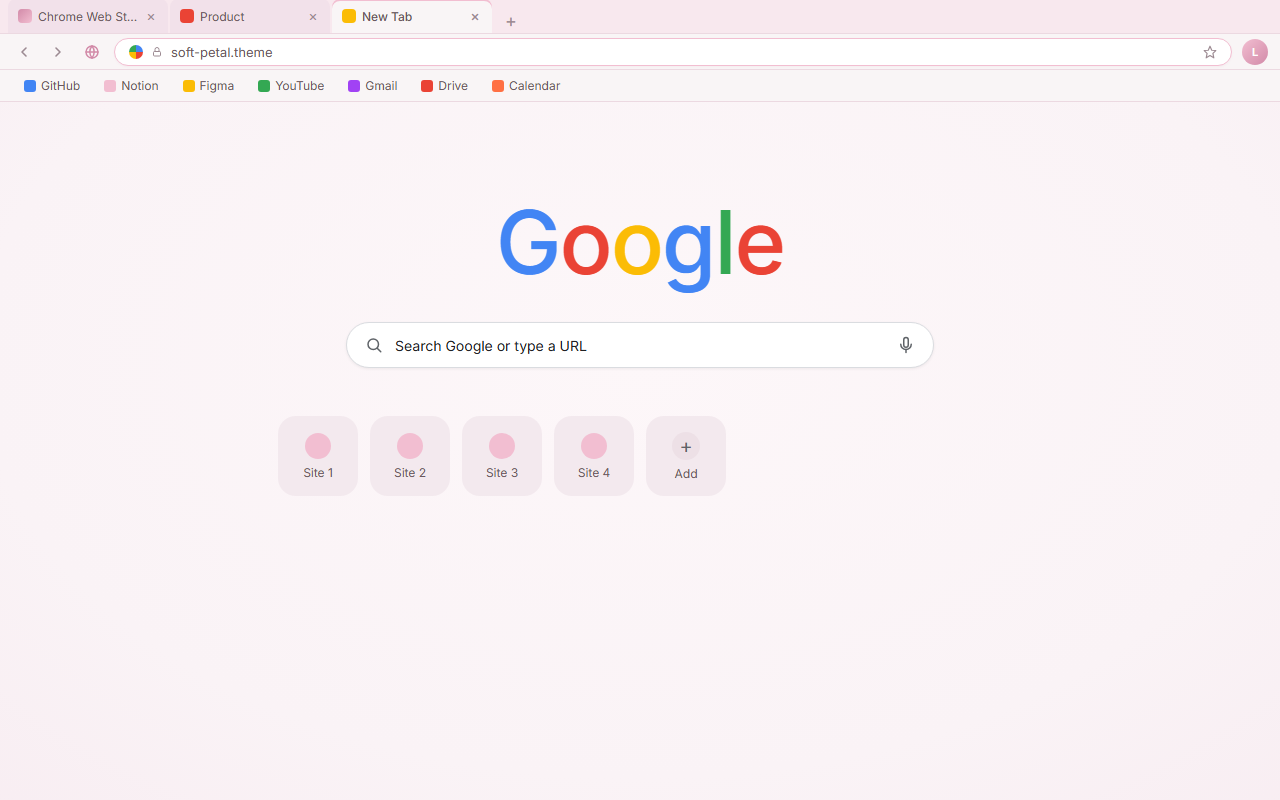
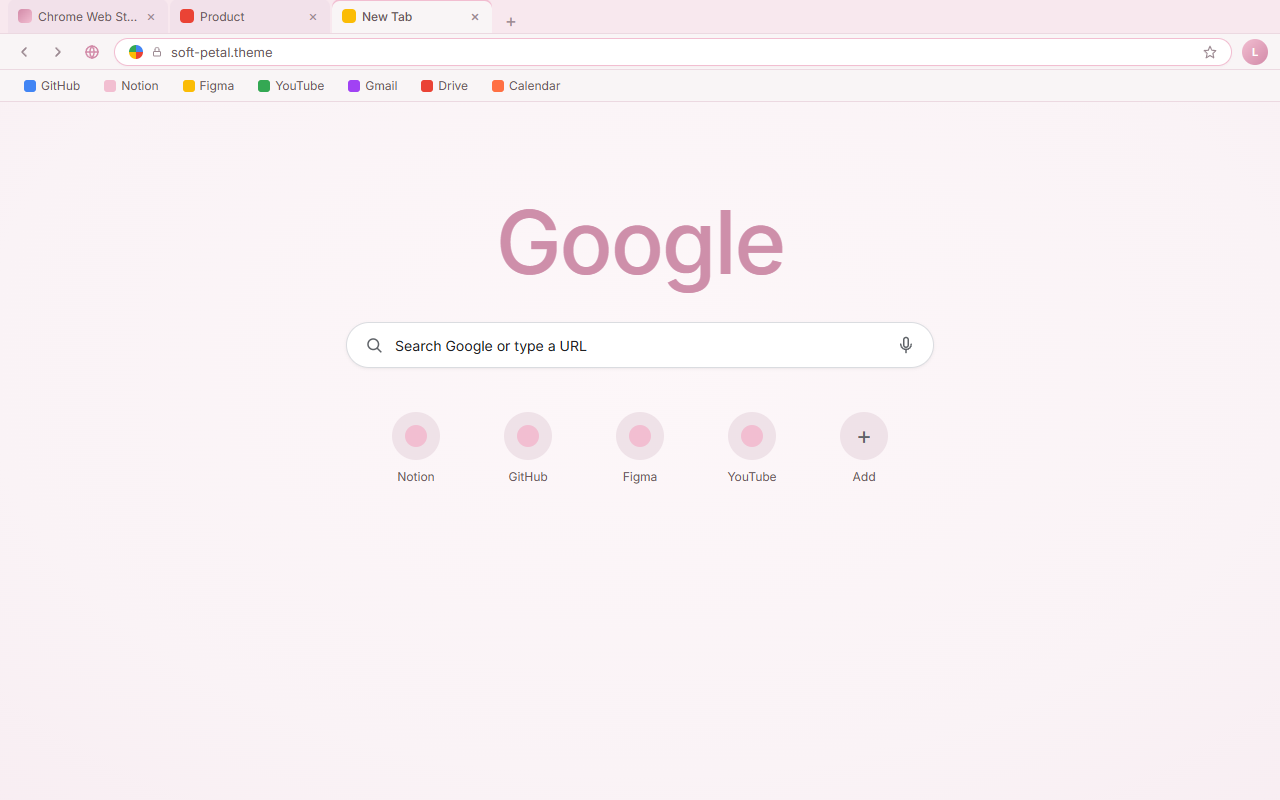
商店截图改为与实机一致（避免“和示例不符”的低分）
- manifest 里 ntp_logo_alternate=1，Chrome 实际渲染单色 logo；mockup 原来画的是彩色 Google，已改为单色玫瑰 #CE8FAA
- 快捷方式由“方块磁贴 + Site 1..4 占位”改为 Chrome 实际的圆形图标 + 站点名
- capture 脚本补本机 Chrome 回退（Playwright 自带内核缺失）
- 主题包本身未改动，无需升版本；只需在商店后台替换这两张截图

diff --git a/scripts/mockups/ntp.html b/scripts/mockups/ntp.html
@@ -121,20 +121,21 @@
   /* ===== NTP body ===== */
   .ntp-body { flex: 1; position: relative; padding-top: 96px; display: flex; flex-direction: column; align-items: center; overflow: hidden; }
   .google-logo { font-family: 'Inter', sans-serif; font-size: 88px; font-weight: 500; letter-spacing: -2px; line-height: 1; margin-bottom: 36px; user-select: none; }
-  .google-logo .g1 { color: #4285F4; }
-  .google-logo .o1 { color: #EA4335; }
-  .google-logo .o2 { color: #FBBC05; }
-  .google-logo .g2 { color: #4285F4; }
-  .google-logo .l  { color: #34A853; }
-  .google-logo .e  { color: #EA4335; }
+  /* manifest sets ntp_logo_alternate: 1, so Chrome draws the mark in ONE tint
+     derived from the palette — the mockup must show that, not the full-colour logo */
+  .google-logo .g1, .google-logo .o1, .google-logo .o2,
+  .google-logo .g2, .google-logo .l, .google-logo .e { color: #CE8FAA; }
   .search { width: 588px; height: 46px; background: var(--white); border: 1px solid #DADCE0; border-radius: 24px; display: flex; align-items: center; padding: 0 18px; gap: 12px; box-shadow: 0 1px 3px rgba(60, 64, 67, 0.08); }
   .search .icon { width: 18px; height: 18px; color: #5F6368; flex: 0 0 18px; }
   .search .text { flex: 1; font-size: 14px; color: #202124; }
   .search .mic { width: 18px; height: 18px; color: #5F6368; flex: 0 0 18px; }
-  .tiles { margin-top: 48px; display: grid; grid-template-columns: repeat(8, 80px); gap: 12px; }
-  .tile { width: 80px; height: 80px; border-radius: 18px; background: #F3E9EE; display: flex; flex-direction: column; align-items: center; justify-content: center; gap: 6px; text-align: center; font-size: 12px; color: var(--text); }
-  .tile .dot { width: 26px; height: 26px; border-radius: 50%; background: var(--petal); }
-  .tile.add .plus { width: 28px; height: 28px; border-radius: 50%; background: #EDE0E6; color: #5F6368; display: flex; align-items: center; justify-content: center; font-size: 20px; font-weight: 300; line-height: 1; }
+  /* shortcuts — Chrome draws a circular icon with the label underneath,
+     not a filled tile (store review: the old mockup looked unlike the real NTP) */
+  .tiles { margin-top: 44px; display: flex; align-items: flex-start; gap: 36px; }
+  .tile { width: 76px; display: flex; flex-direction: column; align-items: center; gap: 9px; text-align: center; font-size: 12px; color: var(--text); }
+  .tile .dot { width: 48px; height: 48px; border-radius: 50%; background: #EFE2E8; position: relative; }
+  .tile .dot::after { content: ""; position: absolute; inset: 13px; border-radius: 50%; background: var(--petal); }
+  .tile.add .plus { width: 48px; height: 48px; border-radius: 50%; background: #EFE2E8; color: #5F6368; display: flex; align-items: center; justify-content: center; font-size: 24px; font-weight: 300; line-height: 1; }
 </style>
 </head>
 <body>
@@ -185,10 +186,10 @@
         <svg class="mic" viewBox="0 0 24 24" fill="none" stroke="currentColor" stroke-width="2" stroke-linecap="round" stroke-linejoin="round"><rect x="9" y="2" width="6" height="13" rx="3"></rect><path d="M5 11a7 7 0 0 0 14 0"></path><line x1="12" y1="18" x2="12" y2="22"></line></svg>
       </div>
       <div class="tiles" aria-label="Shortcuts">
-        <div class="tile"><div class="dot"></div>Site 1</div>
-        <div class="tile"><div class="dot"></div>Site 2</div>
-        <div class="tile"><div class="dot"></div>Site 3</div>
-        <div class="tile"><div class="dot"></div>Site 4</div>
+        <div class="tile"><div class="dot"></div>Notion</div>
+        <div class="tile"><div class="dot"></div>GitHub</div>
+        <div class="tile"><div class="dot"></div>Figma</div>
+        <div class="tile"><div class="dot"></div>YouTube</div>
         <div class="tile add"><div class="plus">+</div>Add</div>
       </div>
     </div>

diff --git a/scripts/capture-screenshots-en.py b/scripts/capture-screenshots-en.py
@@ -29,7 +29,11 @@ def shoot(page, html_path: Path, out_path: Path):
 
 def main():
     with sync_playwright() as p:
-        browser = p.chromium.launch()
+        try:
+            browser = p.chromium.launch()
+        except Exception:
+            # bundled headless shell may be missing after a Playwright update
+            browser = p.chromium.launch(channel="chrome")
         context = browser.new_context(
             viewport={"width": W, "height": H},
             device_scale_factor=1,
